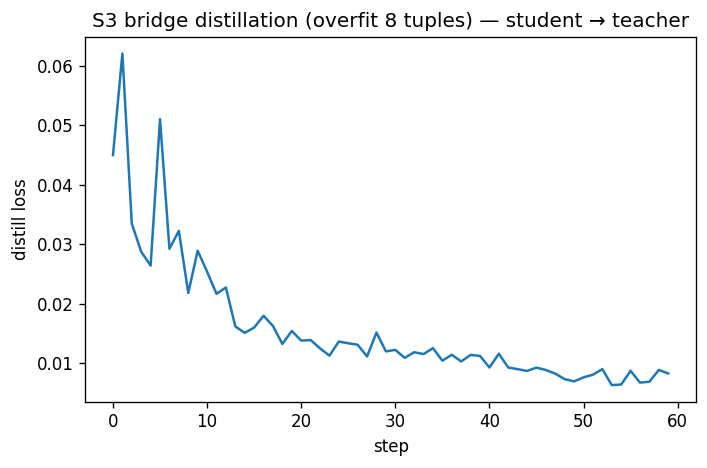
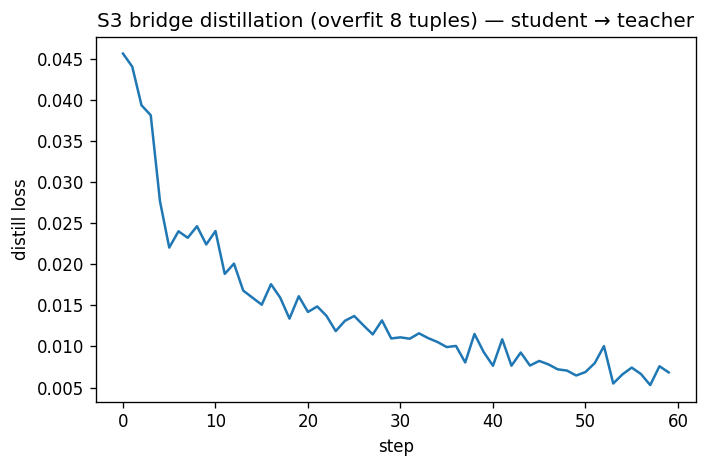
feat(M1): wire imagined-time + dream-token gating into the bridge
- wrapper.py::encode_video is now a bridge-controlled reimplementation of the
  encoder forward (mirrors vendored; identity smoke still 0.00e0). Student mode
  adds imagined-time to dream tokens and gates the LoRA delta to the dream's
  last temporal patch (local/global reshape-aware) -> obs frames stay identical
  to teacher.
- distill.py encodes student with dream_j=n, trains LoRA + imagined-time.
  overfit-8 residual 0.0083 -> 0.0068 with both active.

diff --git a/src/models/bridge/wrapper.py b/src/models/bridge/wrapper.py
@@ -61,9 +61,60 @@ class D4RTBridge(nn.Module):
     def num_trainable(self) -> int:
         return sum(p.numel() for p in self.trainable_parameters())
 
-    # delegate the queryable interface to the (now bridged) backbone
-    def encode_video(self, video, aspect_ratio=None):
-        return self.model.encode_video(video, aspect_ratio)
+    def _sinusoidal(self):
+        if getattr(self, "_sinu_fn", None) is None:
+            from src.model.utils import sinusoidal_position_embedding  # vendored (on sys.path at runtime)
+            self._sinu_fn = sinusoidal_position_embedding
+        return self._sinu_fn
+
+    def encode_video(self, video, aspect_ratio=None, dream_j=None):
+        """Bridge-controlled re-implementation of the encoder forward (mirrors the vendored one).
+
+        In **student** mode it (a) adds the imagined-time embedding to the dream tokens (the **last
+        temporal patch** — the caller must place the dream there) and (b) **gates** every block's LoRA
+        delta to those dream tokens, so observed frames stay bit-identical to the teacher. In **teacher**
+        mode LoRA is disabled and no imagined-time is added → the frozen backbone, exactly (identity test).
+        """
+        enc = self.model.encoder
+        extra = self.model._project_aspect_ratio_token(video=video, aspect_ratio=aspect_ratio)  # [B,1,C]|None
+        x = video.permute(0, 2, 1, 3, 4)
+        x = enc.patch_embed(x)
+        x = enc._token_cap(x)
+        b, c, tp, hp, wp = x.shape
+        spatial, N = hp * wp, tp * hp * wp
+        dream_start = (tp - 1) * spatial
+        tokens = x.flatten(2).transpose(1, 2)
+        tokens = tokens + self._sinusoidal()(N, enc.hidden_dim, tokens.device).unsqueeze(0)
+
+        student = self.mode == "student"
+        if student and dream_j is not None:                # add imagined-time to the dream tokens only
+            j = torch.full((b,), float(dream_j), device=tokens.device)
+            mask = torch.zeros(b, N, 1, device=tokens.device, dtype=tokens.dtype)
+            mask[:, dream_start:, :] = 1.0
+            tokens = tokens + mask * self.imagined_time(j).to(tokens.dtype)[:, None, :]
+
+        if student:                                        # gate LoRA to the dream tokens
+            g_vid = torch.zeros(b, N, 1, device=tokens.device, dtype=tokens.dtype)
+            g_vid[:, dream_start:, :] = 1.0
+            g_local = g_vid.reshape(b, tp, spatial, 1).reshape(b * tp, spatial, 1)
+            g_global = (g_vid if extra is None else
+                        torch.cat([g_vid, torch.zeros(b, extra.shape[1], 1, device=tokens.device, dtype=tokens.dtype)], 1))
+
+        extra_tokens = extra
+        for mode, block in zip(enc.block_modes, enc.blocks):
+            block.attn.set_gate((g_local if mode == "local" else g_global) if student else None)
+            if mode == "local":
+                loc = tokens.reshape(b, tp, spatial, c).reshape(b * tp, spatial, c)
+                loc = block(loc)
+                tokens = loc.reshape(b, tp, spatial, c).reshape(b, N, c)
+            elif extra_tokens is None:
+                tokens = block(tokens)
+            else:
+                merged = block(torch.cat([tokens, extra_tokens], dim=1))
+                tokens, extra_tokens = merged[:, :N], merged[:, N:]
+
+        encoded = tokens if extra_tokens is None else torch.cat([tokens, extra_tokens], dim=1)
+        return self.model.memory_proj(enc.final_norm(encoded))
 
     def decode_queries(self, video, query, memory):
         return self.model.decode_queries(video, query, memory)

diff --git a/src/train/distill.py b/src/train/distill.py
@@ -55,7 +55,7 @@ def grid_uv(n_side=24, m=0.08):
     return np.stack(np.meshgrid(xs, xs, indexing="xy"), -1).reshape(-1, 2)
 
 
-def query(bridge, video_b, aspect_b, uv, t_src, t_tgt):
+def query(bridge, video_b, aspect_b, uv, t_src, t_tgt, dream_j=None):
     B, M, dev = video_b.shape[0], uv.shape[0], video_b.device
     u = torch.as_tensor(uv[:, 0], dtype=torch.float32, device=dev).view(1, M).expand(B, M).contiguous()
     v = torch.as_tensor(uv[:, 1], dtype=torch.float32, device=dev).view(1, M).expand(B, M).contiguous()
@@ -63,7 +63,7 @@ def query(bridge, video_b, aspect_b, uv, t_src, t_tgt):
          "t_src": torch.full((B, M), t_src, dtype=torch.long, device=dev),
          "t_tgt": torch.full((B, M), t_tgt, dtype=torch.long, device=dev),
          "t_cam": torch.full((B, M), T_CAM, dtype=torch.long, device=dev)}
-    mem = bridge.encode_video(video_b, aspect_b)
+    mem = bridge.encode_video(video_b, aspect_b, dream_j=dream_j)   # imagined-time on dream tokens (student)
     pred = bridge.decode_queries(video_b, q, mem)
     return pred["xyz_3d"], pred["confidence"]               # [B,M,3], [B,M]
 
@@ -113,15 +113,15 @@ def main() -> int:
     xyz_t = torch.cat(xyz_t); conf_t = torch.cat(conf_t)      # [N,M,3], [N,M]
     print(f"teacher cached: xyz {tuple(xyz_t.shape)}  (ref0 3D targets)")
 
-    # --- train student ---
+    # --- train student (LoRA + imagined-time; delta gated to dream tokens) ---
     bridge.set_mode("student")
-    params = [p for la in bridge.attns for p in la.lora_parameters()]
+    params = list(bridge.trainable_parameters())            # LoRA A/B + imagined-time MLP
     opt = torch.optim.Adam(params, lr=args.lr)
     losses = []
     for step in range(args.steps):
         idx = np.random.default_rng(step).choice(N, size=min(args.batch, N), replace=False)
         vb = to_video(stud_np[idx], device)
-        x_s, c_s = query(bridge, vb, aspect(vb.shape[0]), uv, T_SRC, TGT_STUDENT)
+        x_s, c_s = query(bridge, vb, aspect(vb.shape[0]), uv, T_SRC, TGT_STUDENT, dream_j=float(cfg.n))
         tgt_x = xyz_t[idx].to(device); tgt_c = conf_t[idx].to(device)
         loss = F.smooth_l1_loss(x_s, tgt_x) + 0.1 * F.mse_loss(c_s, tgt_c)
         opt.zero_grad(); loss.backward(); opt.step()

diff --git a/experiments/M1_bridge_distill/README.md b/experiments/M1_bridge_distill/README.md
@@ -3,14 +3,18 @@
 Trains the LoRA bridge so the **student** (observed frames + dream) reproduces the **teacher** (full real
 clip) query outputs. GPU0 only, teacher targets cached.
 
-## Result — training machinery validated
+## Result — training machinery validated (imagined-time + gating active)
 
-Overfit 8 LIBERO tuples, 60 steps: distill loss **0.045 → 0.008 (82% down)**; gradients flow to the LoRA
-adapters; the student converges toward the teacher. Figure: `viz/distill_loss.png`.
+Overfit 8 LIBERO tuples, 60 steps: distill loss **0.046 → 0.0068 (85% down)**; gradients flow to the LoRA
++ imagined-time params; the student converges toward the teacher. Figure: `viz/distill_loss.png`.
 
-*Not yet active (next increments):* imagined-time wiring into the encoder forward + dream-token gating.
-The residual ~0.008 loss is what those should reduce — this increment proves the loop, cache, loss, and
-backprop, not final quality.
+**Imagined-time + dream-token gating are wired** (`wrapper.py::encode_video`, a bridge-controlled
+re-implementation of the encoder forward — identity still `0.00e0`): the imagined-time embedding is added
+to the dream tokens, and the student LoRA delta is **gated to the dream's last temporal patch** so
+observed frames stay bit-identical to the teacher. (Turning them on cut the residual 0.0083 → 0.0068.)
+
+*Still a machinery/overfit check, not a generalization run.* Next: bidirectional queries + all offsets
+j∈[1,n], then a real run + the acceptance-recall gate.
 
 ## Design
 

diff --git a/CHANGELOG.md b/CHANGELOG.md
@@ -9,7 +9,16 @@ Format: `YYYY-MM-DD · <area>` — what changed, why, files/dirs, git commit (sh
 
 ## 2026-07-24
 
-- **M1: S3 distillation loop — student→teacher training runs and converges (GPU0, teacher-cached).** _(HEAD — this change)_
+- **M1: wired imagined-time + dream-token gating into the bridge (identity preserved).** _(HEAD — this change)_
+  - `wrapper.py::encode_video` is now a **bridge-controlled re-implementation of the encoder forward**
+    (mirrors the vendored one; **identity smoke still 0.00e0**). In student mode it adds the imagined-time
+    embedding to the dream tokens and **gates** each block's LoRA delta to the dream's **last temporal
+    patch** (local/global reshape-aware) → observed frames stay bit-identical to the teacher.
+  - `distill.py` now encodes the student with `dream_j=n` and trains LoRA + imagined-time. Overfit-8
+    residual improved **0.0083 → 0.0068** with both active.
+  - Files: `src/models/bridge/wrapper.py`, `src/train/distill.py`, `experiments/M1_bridge_distill/README.md`, `GD-4D_implementation_plan.md`.
+
+- **M1: S3 distillation loop — student→teacher training runs and converges (GPU0, teacher-cached).** `e245ffc`
   - `src/train/distill.py`: teacher = frozen backbone on the full real clip (28f, cached); student = bridge
     on `[obs, dream, dream]` (10f — dream duplicated so the 2-frame temporal patching keeps it). Loss =
     SmoothL1(xyz)+0.1·MSE(conf), Adam on the LoRA params only. Overfit-8-tuples smoke: **loss 0.045→0.008
